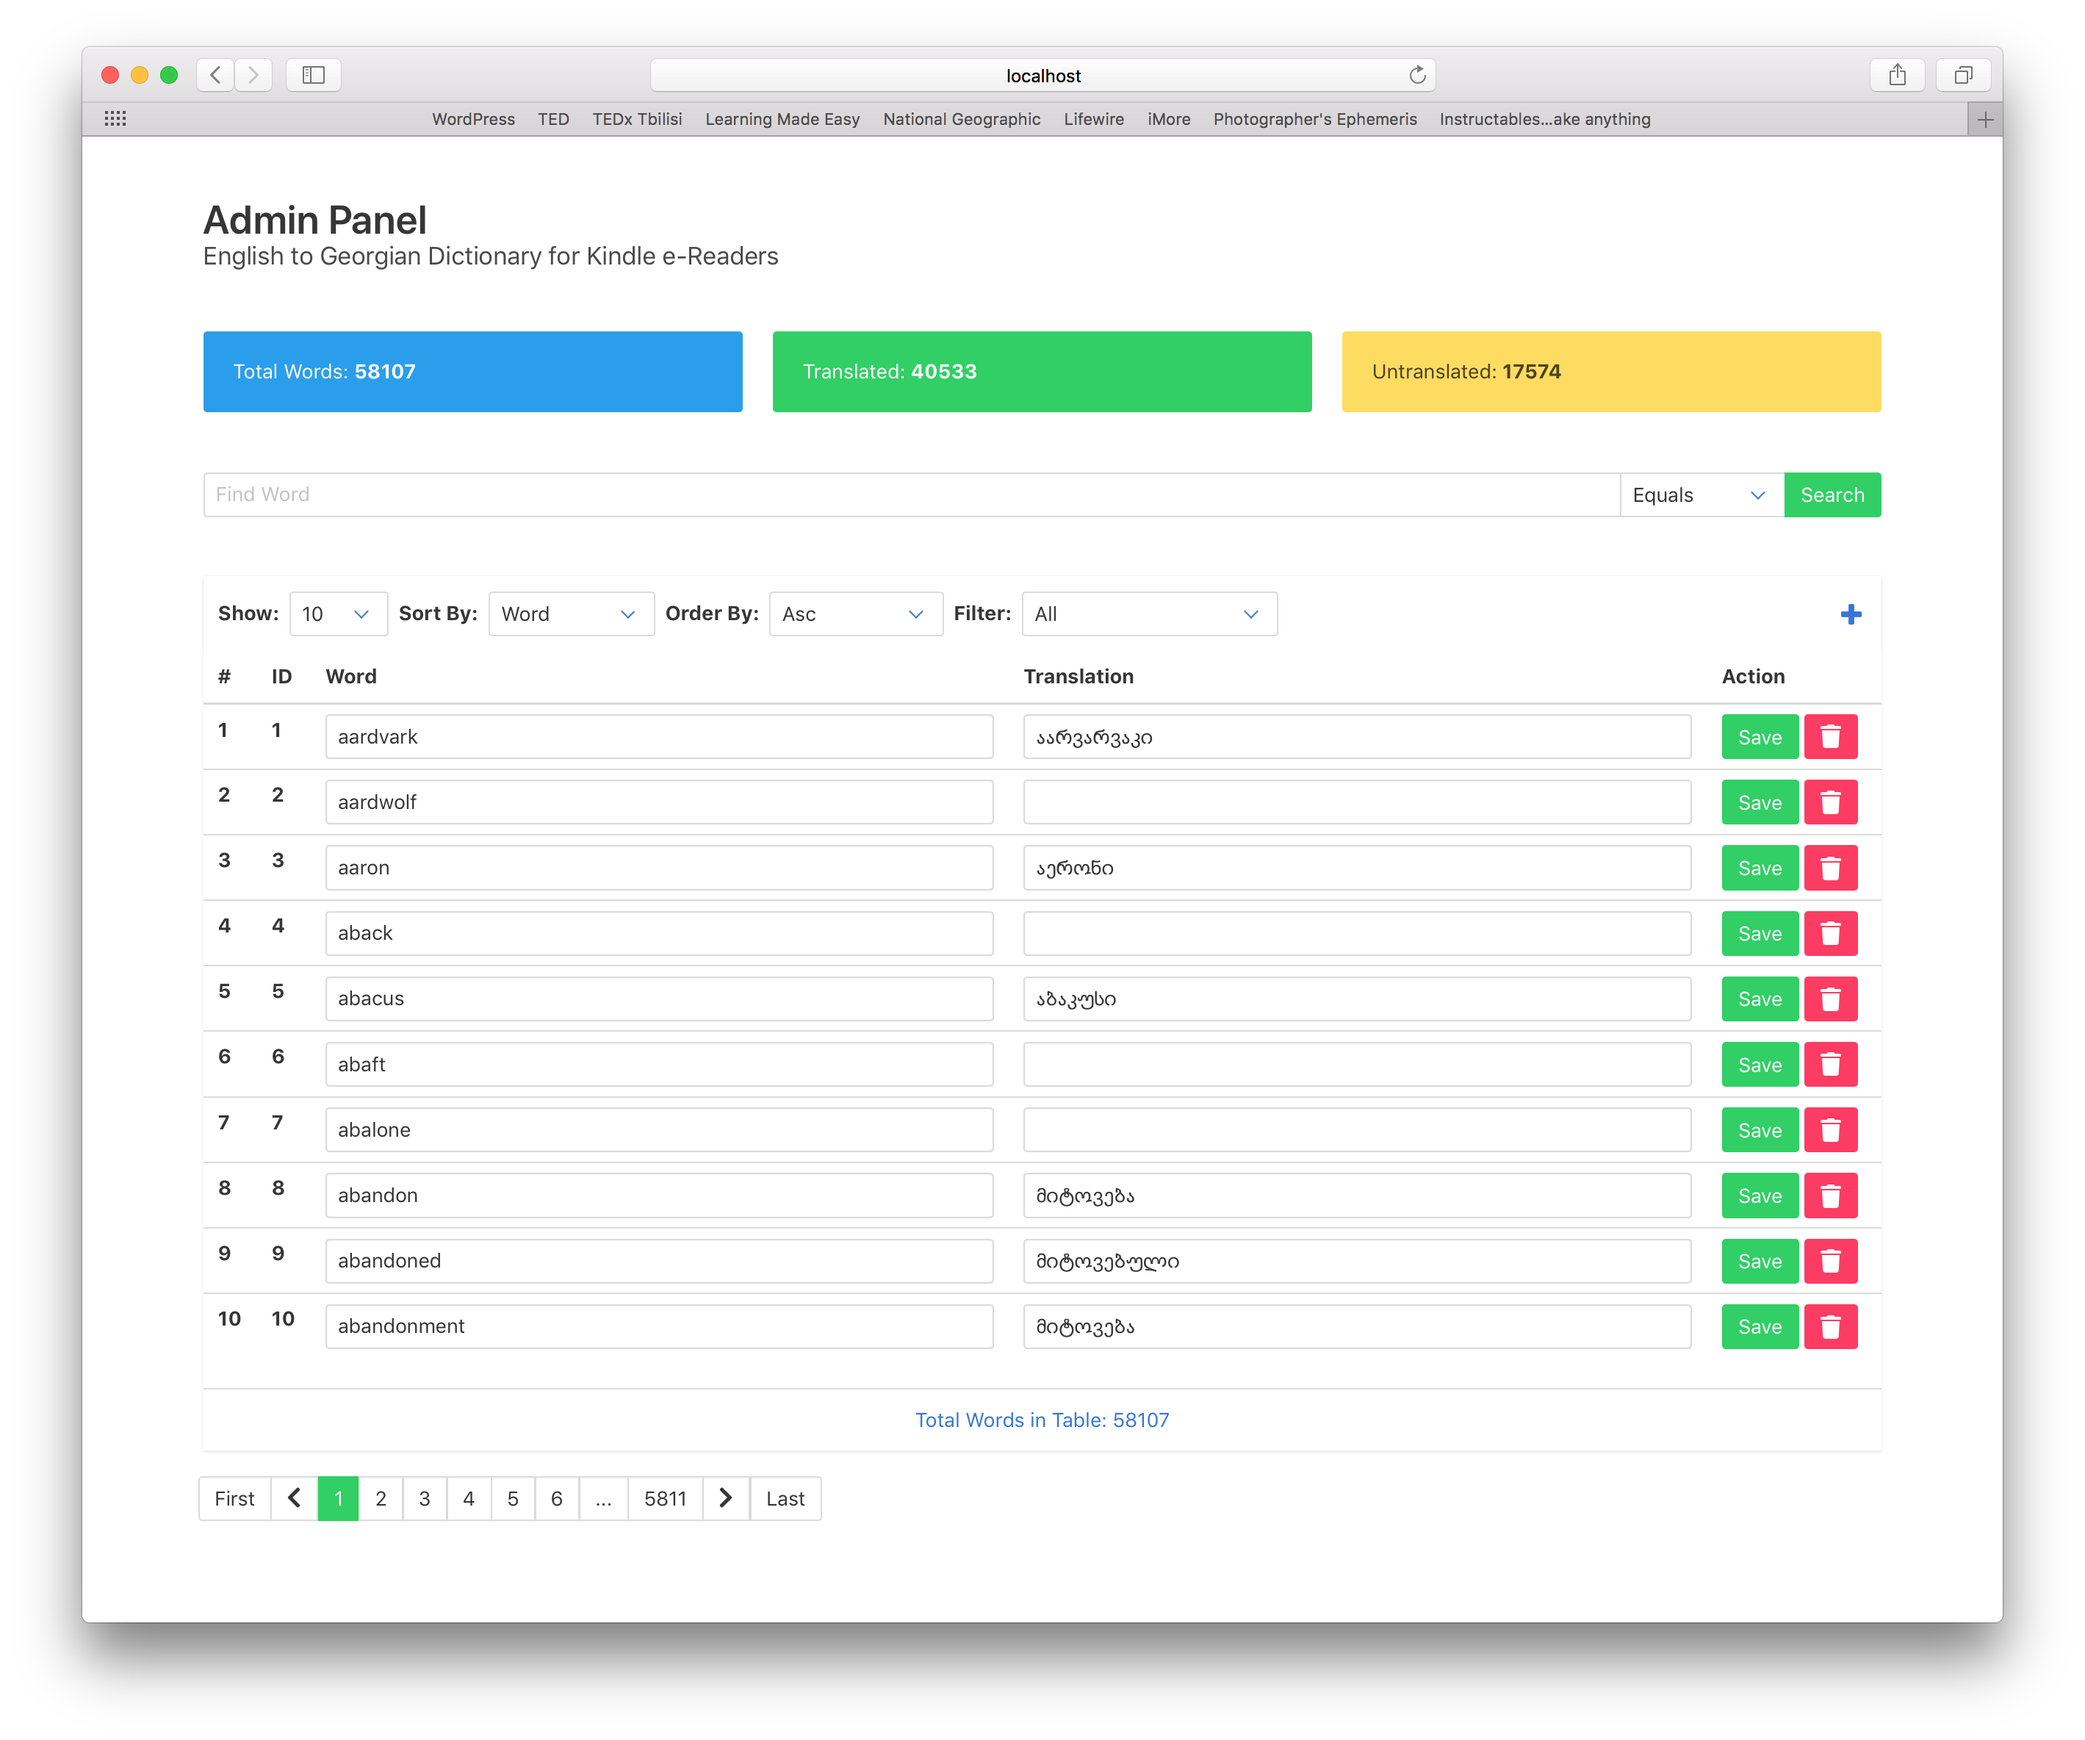
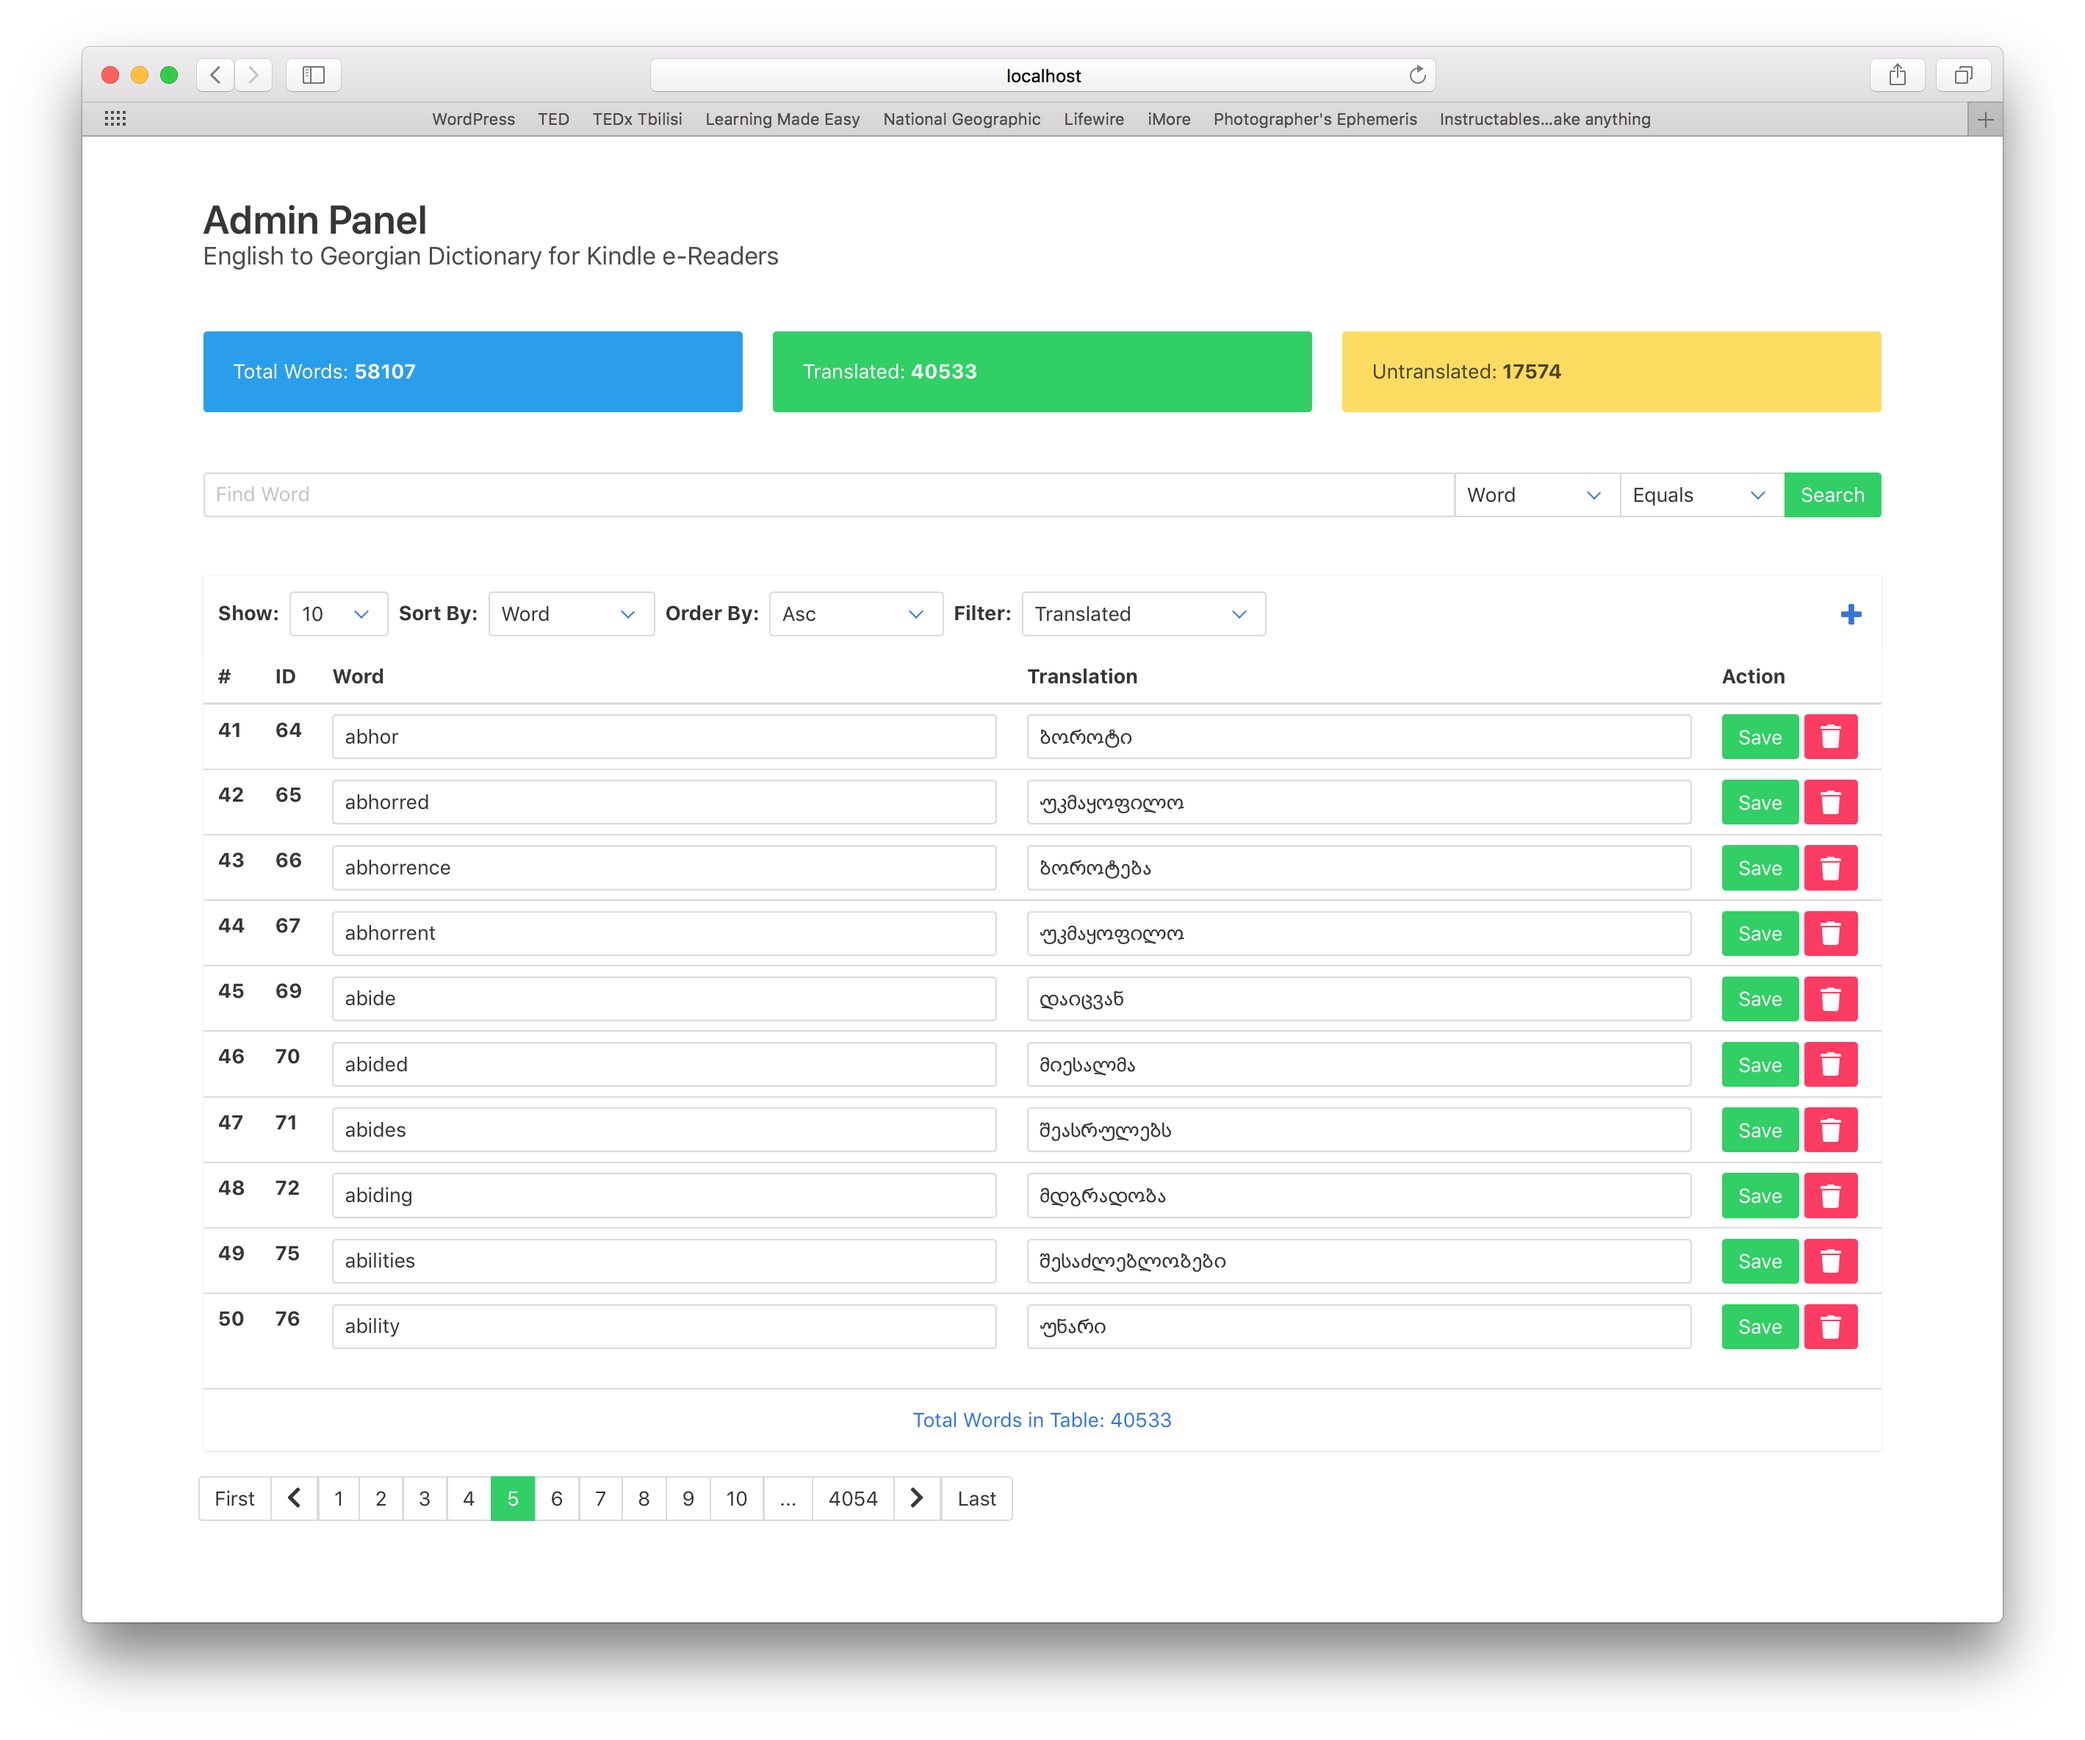
Fixed filter

diff --git a/admin/app.js b/admin/app.js
@@ -1,5 +1,15 @@
 Vue.component('paginate', VuejsPaginate)
 
+const getParameterByName = function(name, url) {
+    if (!url) url = window.location.href;
+    name = name.replace(/[\[\]]/g, "\\$&");
+    var regex = new RegExp("[?&]" + name + "(=([^&#]*)|&|#|$)"),
+        results = regex.exec(url);
+    if (!results) return null;
+    if (!results[2]) return '';
+    return decodeURIComponent(results[2].replace(/\+/g, " "));
+}
+
 var app = new Vue({
     el: '#app',
     data: {
@@ -8,13 +18,14 @@ var app = new Vue({
         untranslated: 0,
         total: 0,
         count: 0,
-        page: 0,
-        limit: 10,
-        searchTerm: "",
-        searchMode: "equals",
-        sort: "word",
-        order: "asc",
-        filter: "0",
+        page: parseInt(getParameterByName('page')) || 0,
+        limit: getParameterByName('limit') || 10,
+        searchField: getParameterByName('searchField') || "word",
+        searchTerm: getParameterByName('searchTerm') || "",
+        searchMode: getParameterByName('searchMode') || "equals",
+        sort: getParameterByName('sort') || "word",
+        order: getParameterByName('order') || "asc",
+        filter: getParameterByName('filter') || "0",
         api: "http://localhost:3000",
     },
     computed: {
@@ -34,12 +45,14 @@ var app = new Vue({
                 })
         },
         getWordCount() {
-            return axios.get(`${this.api}/count?filter=${this.filter}&searchTerm=${this.searchTerm}&searchMode=${this.searchMode}`)
+            return axios.get(`${this.api}/count?filter=${this.filter}&searchTerm=${this.searchTerm}&searchMode=${this.searchMode}&searchField=${this.searchField}`)
         },
         getWordList() {
-            axios.get(`${this.api}/fetch?limit=${this.limit}&offset=${(this.limit*this.page)}&sort=${this.sort}&order=${this.order}&filter=${this.filter}&searchTerm=${this.searchTerm}&searchMode=${this.searchMode}`)
+            axios.get(`${this.api}/fetch?limit=${this.limit}&offset=${(this.limit*this.page)}&sort=${this.sort}&order=${this.order}&filter=${this.filter}&searchTerm=${this.searchTerm}&searchMode=${this.searchMode}&searchField=${this.searchField}`)
                 .then(response => {
                     this.words = response.data
+
+                    this.updateUrl()
                 })
         },
         goTo(page) {
@@ -81,7 +94,29 @@ var app = new Vue({
                     this.getWordList()
                 })
             }
-        }
+        },
+        reset(){
+            var newurl = window.location.protocol + "//" + window.location.host + window.location.pathname;
+            window.location.href = newurl;
+        },
+        updateUrl() {
+            if (history.pushState) {
+                const params = [
+                    {'searchField': this.searchField},
+                    {'searchTerm': this.searchTerm},
+                    {'searchMode': this.searchMode},
+                    {'page': this.page},
+                    {'limit': this.limit},
+                    {'sort': this.sort},
+                    {'order': this.order},
+                    {'filter': this.filter},
+                ]
+                let queryString = "";
+                params.forEach(item => queryString += `&${Object.keys(item)}=${Object.values(item)}`)
+                var newurl = window.location.protocol + "//" + window.location.host + window.location.pathname + '?' + queryString;
+                window.history.pushState({path:newurl},'',newurl);
+            }
+        },
     },
     mounted(){
         this.init()

diff --git a/admin/index.html b/admin/index.html
@@ -20,7 +20,7 @@
         <section class="hero">
             <div class="hero-body" style="padding-bottom: 0">
                 <div class="container">
-                <h1 class="title">
+                <h1 class="title" @click="reset()">
                     Admin Panel
                 </h1>
                 <h2 class="subtitle">
@@ -54,6 +54,14 @@
                                 <div class="control  is-expanded">
                                     <input class="input" v-model="searchTerm" type="text" placeholder="Find Word">
                                 </div>
+                                <p class="control">
+                                    <span class="select">
+                                        <select v-model="searchField"> 
+                                            <option value="word">Word</option>
+                                            <option value="translation">Translation</option>
+                                        </select>
+                                    </span>
+                                </p>
                                 <p class="control">
                                     <span class="select">
                                         <select v-model="searchMode"> 
@@ -108,7 +116,7 @@
                                 <select v-model="filter" @change="init()">
                                     <option value="0">All</option>
                                     <option value="1">Translated</option>
-                                    <option value="2">Whithout Translation</option>
+                                    <option value="2">Without Translation</option>
                                 </select>
                             </span>
                         </p>
@@ -155,25 +163,6 @@
                 </div>
                 <br>
                 <div class="field has-addons">
-                    <!-- <p class="control">
-                        <button :disabled="page<1" class="button" @click="goTo(page)">
-                            <span>
-                                <i class="fa fa-chevron-left" aria-hidden="true"></i>
-                            </span>
-                        </button>
-                    </p>
-                    <p class="control" v-for="n in pages">
-                        <a class="button" @click="goTo(n)" :class="{'is-primary': n === page+1}">
-                            <span>{{n}}</span>
-                        </a>
-                    </p>
-                    <p class="control">
-                        <button :disabled="(page+1)===pages" class="button" @click="goTo(page+2)">
-                            <span>
-                                <i class="fa fa-chevron-right" aria-hidden="true"></i>
-                            </span>
-                        </button>
-                    </p> -->
                     <paginate
                         :page-count="pages"
                         :click-handler="goTo"
@@ -183,6 +172,7 @@
                         :no-li-surround="false"
                         :first-last-button="true"
                         :page-range="5"
+                        :force-page="page"
                         :page-link-class="'button'"
                         :active-class="'is-active'"
                         :container-class="'pagination'">

diff --git a/server.js b/server.js
@@ -22,6 +22,12 @@ app.get('/', (request, response) => {
 
 app.get('/count', (request, response) => {
     let sqlString = ''
+    let sqlString1 = ''
+    let fieldName = 'word'
+    
+    if(request.query.searchField == 'translation') {
+        fieldName = 'translation'
+    }
 
     if(request.query.filter == 1) {
         sqlString = ' AND translation IS NOT NULL'
@@ -29,22 +35,21 @@ app.get('/count', (request, response) => {
         sqlString = ' AND translation IS NULL'
     }
     
-    let sqlString1 = ''
 
     if(request.query.searchTerm) {
         const term = request.query.searchTerm
         switch (request.query.searchMode) {
             case 'contains':
-                sqlString1 = ` AND word like '%${term}%' `
+                sqlString1 = ` AND ${fieldName} like '%${term}%' `
                 break;
             case 'starts':
-                sqlString1 = ` AND word like '${term}%' `
+                sqlString1 = ` AND ${fieldName} like '${term}%' `
                 break;
             case 'ends':
-                sqlString1 = ` AND word like '%${term}' `
+                sqlString1 = ` AND ${fieldName} like '%${term}' `
                 break;
             default:
-                sqlString1 = ` AND word = '${term}' `
+                sqlString1 = ` AND ${fieldName} = '${term}' `
                 break;
         }
     }
@@ -101,6 +106,12 @@ app.get('/delete', (request, response) => {
 
 app.get('/fetch', (request, response) => {
     let sqlString = ''
+    let sqlString1 = ''
+    let fieldName = 'word'
+    
+    if(request.query.searchField == 'translation') {
+        fieldName = 'translation'
+    }
 
     if(request.query.filter == 1) {
         sqlString = ' AND translation IS NOT NULL'
@@ -108,22 +119,21 @@ app.get('/fetch', (request, response) => {
         sqlString = ' AND translation IS NULL'
     }
 
-    let sqlString1 = ''
 
     if(request.query.searchTerm) {
         const term = request.query.searchTerm
         switch (request.query.searchMode) {
             case 'contains':
-                sqlString1 = ` AND word like '%${term}%' `
+                sqlString1 = ` AND ${fieldName} like '%${term}%' `
                 break;
             case 'starts':
-                sqlString1 = ` AND word like '${term}%' `
+                sqlString1 = ` AND ${fieldName} like '${term}%' `
                 break;
             case 'ends':
-                sqlString1 = ` AND word like '%${term}' `
+                sqlString1 = ` AND ${fieldName} like '%${term}' `
                 break;
             default:
-                sqlString1 = ` AND word = '${term}' `
+                sqlString1 = ` AND ${fieldName} = '${term}' `
                 break;
         }
     }
